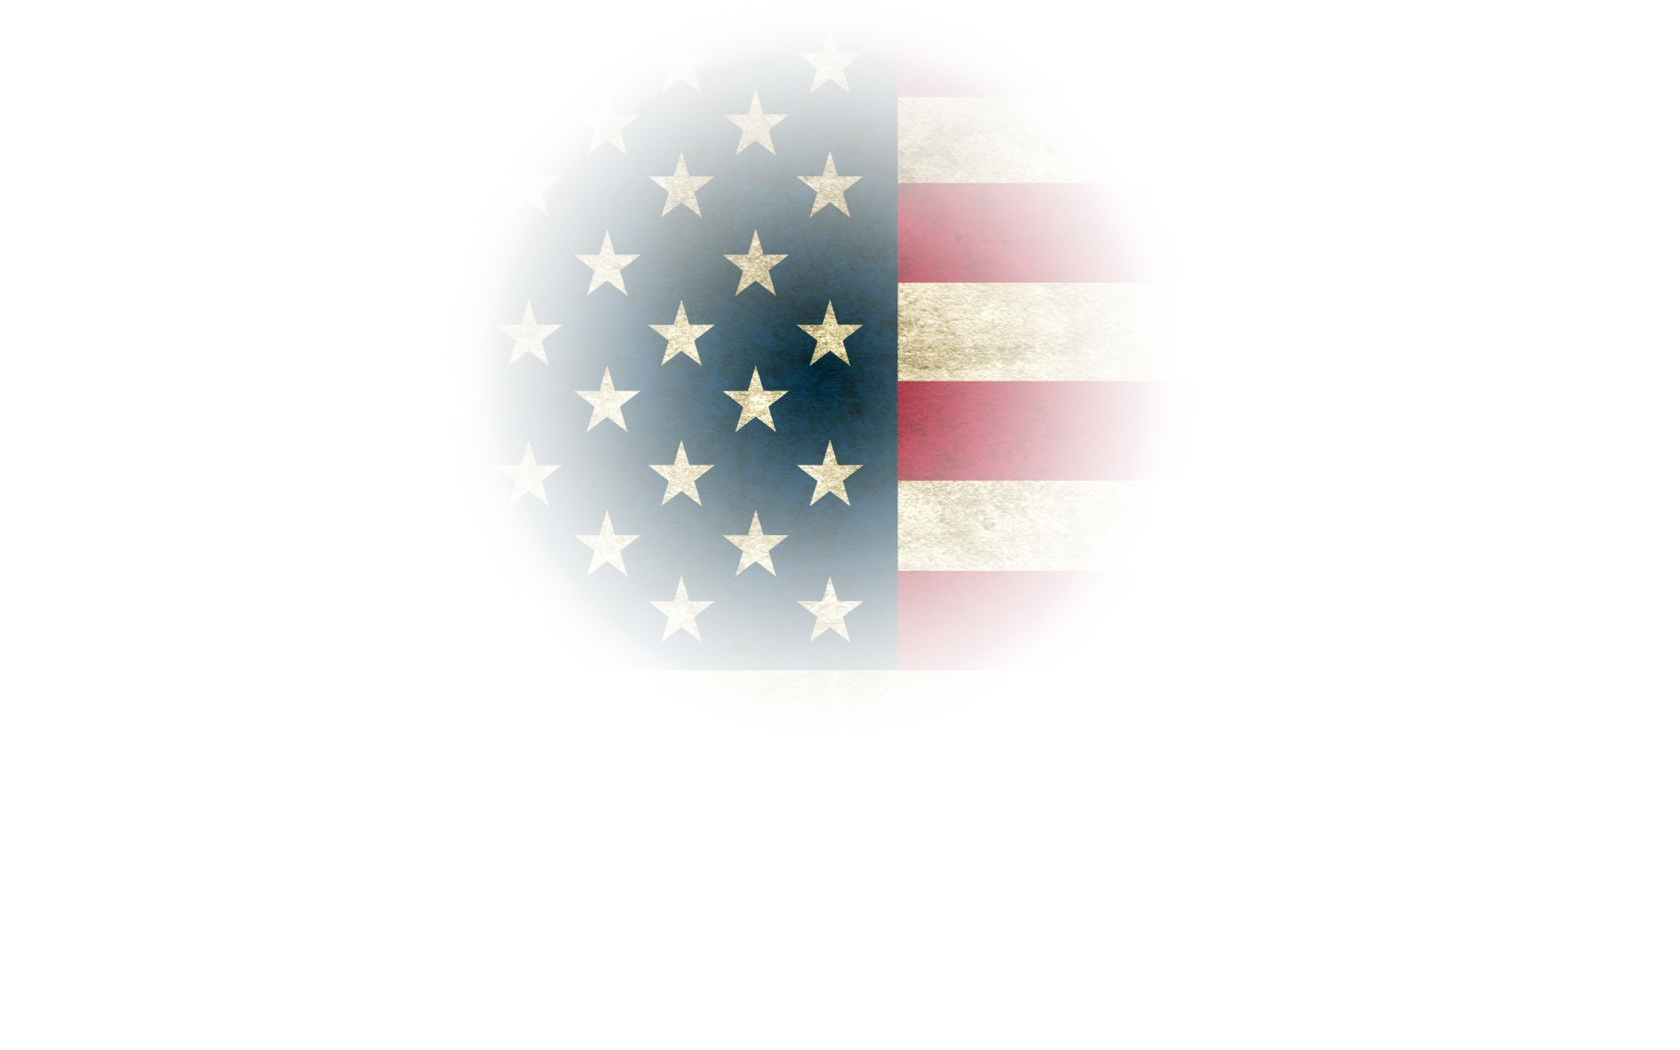
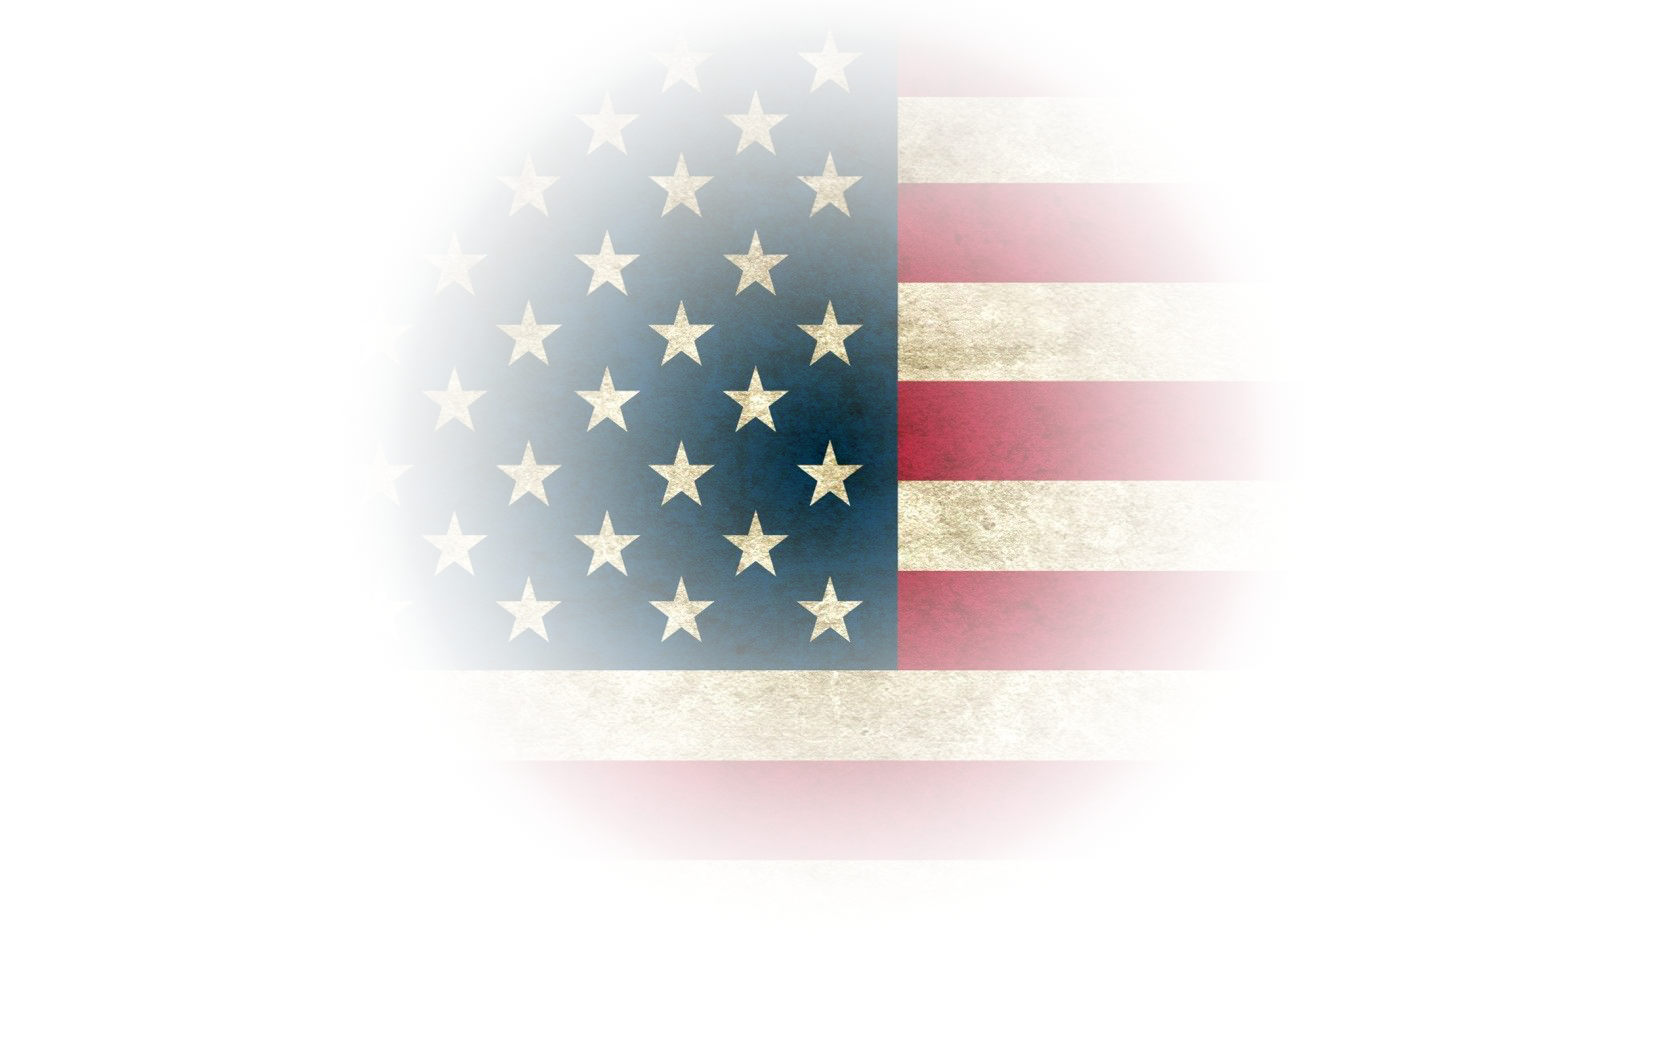
start screen update

Changed region(s): [[0.2476, 0.2133, 0.7429, 0.8229], [0.65, 0.2438, 0.7119, 0.2743]]

diff --git a/source/components/Start/Start.js b/source/components/Start/Start.js
@@ -1,15 +1,38 @@
-import React from 'react';
+import React, {useState} from 'react';
 import styles from './Start.scss';
 import Layout from "../Layout";
 import Button from "../Button";
 import PersonalProfile from "../PersonalProfile";
 import {useSelector} from "react-redux";
+import { Redirect } from "react-router-dom";
+
 const level1map = require('./assets/level-1.png')
 
 export default function Start(props) {
     const {
         avatarURL, name, status, color
     } = useSelector(state => state.user)
+
+  
+    
+    const [buttonText, changeButtonText] = useState('Начать')
+    const [started, changeStarted] = useState(false)
+    
+    function onStart() {
+        // TODO: refactor it
+        (function loop (i) {
+            setTimeout(function () {
+                changeButtonText(`..${i}..`)
+                if (--i >= 0) {
+                    loop(i);
+                }
+                
+                else {
+                    changeStarted(true)
+                }
+            }, 1000)
+        })(5);
+    }
     
     return (
         <Layout containered={true} title={false} back={'/'} withBackgroundImage={false}>
@@ -34,7 +57,13 @@ export default function Start(props) {
                             <img src={level1map} alt=""/>
                         </div>
                         <div className={styles.button}>
-                            <Button to={'/menu'} id={'start-button'}>Начать</Button>
+                            {
+                                started ?
+                                    <Redirect to="/rooms/1" />
+                                    :
+                                    <Button onClick={onStart} id={'start-button'}>{buttonText}</Button>
+                            }
+                          
                         </div>
                     </div>
                     <div className={`${styles.aside} ${styles.right}`}>

diff --git a/source/components/Button/Button.js b/source/components/Button/Button.js
@@ -2,10 +2,22 @@ import React from 'react';
 import styles from './Button.scss';
 import {Link} from "react-router-dom";
 
-export default function Button({children, type = 'primary', to = null, id = null, target = "_self"}) {
-    return (
-        <Link to={to} id={id} target={target} data-click-sound className={`${styles.button} ${styles[type]}`}>
-            {children}
-        </Link>
-    );
+export default function Button({children, onClick = null, type = 'primary', to = null, id = null, target = "_self"}) {
+    // TODO: refactor it
+    if (to) {
+        return (
+            <Link to={to} id={id} target={target} data-click-sound className={`${styles.button} ${styles[type]}`}>
+                {children}
+            </Link>
+        );
+    }
+    
+    else {
+        return (
+            <button onClick={onClick} id={id} target={target} data-click-sound className={`${styles.button} ${styles[type]}`}>
+                {children}
+            </button>
+        );
+    }
+   
 }

diff --git a/source/components/Start/Start.scss b/source/components/Start/Start.scss
@@ -8,7 +8,9 @@
 
   position: relative;
   background-image: url('./assets/bg.png');
-  background-size: cover;
+  background-size: contain;
+  background-position: center center;
+  background-repeat: no-repeat;
 }
 
 .button {
